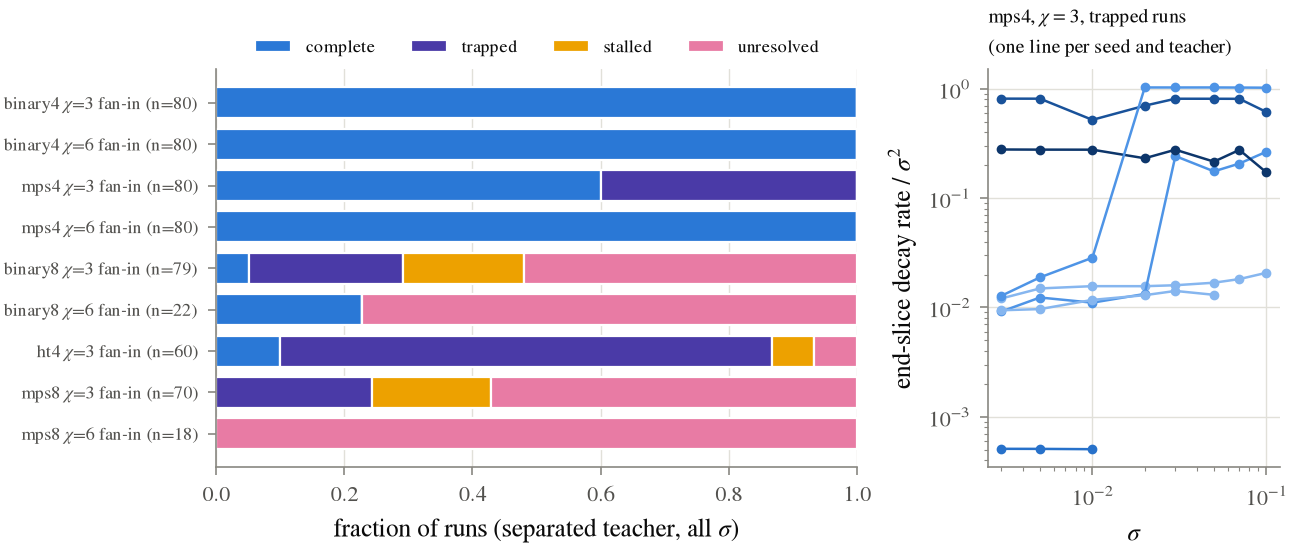
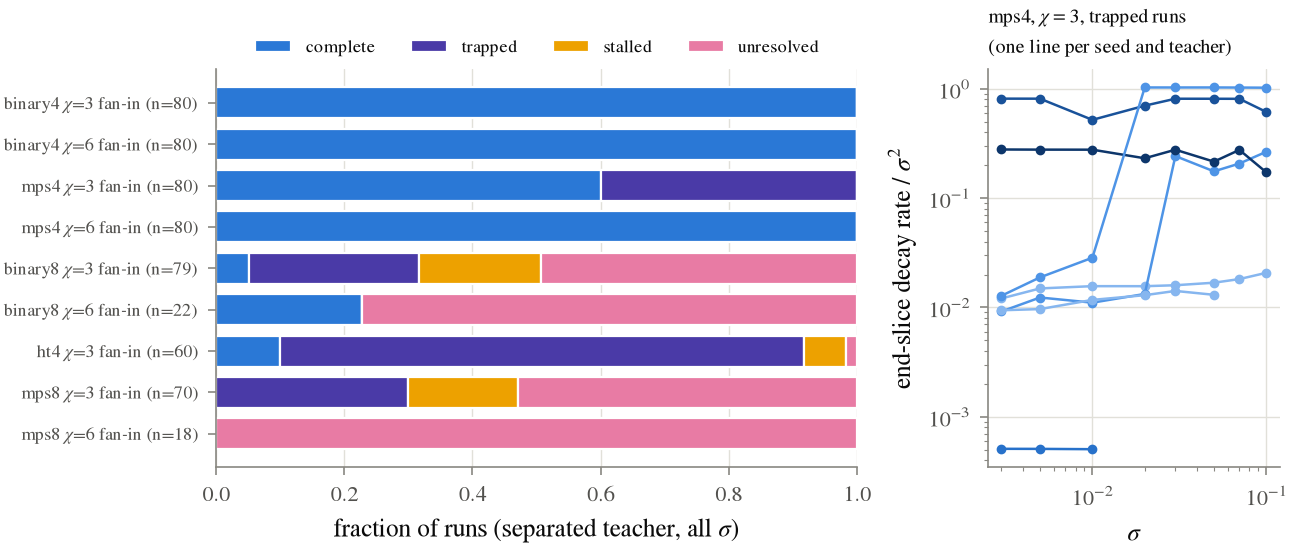
s2s-core: dead-route-end stop and class threshold 1e-8 sigma

diff --git a/experiments/s2s_core/analyze_main.py b/experiments/s2s_core/analyze_main.py
@@ -5,7 +5,7 @@
 Writes <out>/main_runs.csv (one row per run) and <out>/main_summary.csv (per tree, chi, teacher,
 sigma: run counts by class, S2S fraction, plateau-level errors, Hessian summary). Classes:
   complete    all components learned, every event resolved
-  trapped     not complete; a never-learned component's slice on some core fell below 1e-10 sigma
+  trapped     not complete; a never-learned component's slice on some core fell below 1e-8 sigma
               after the first escape (dead route end, the conservation-law trap; any later escape
               would be seeded by float64 roundoff, so it is not reported as physics)
   stalled     not complete, all slices alive, and the run reached t_max (1e3 x the RMS-overlap
@@ -44,7 +44,7 @@ def load(raw: Path) -> pd.DataFrame:
         after = [v for row in s["dormant_min_between_events"][1:] for v in row.values()]
         min_after = min(after) if after else np.nan
         # Dead route end: a never-learned component whose slice on some core (cores with sites,
-        # which include every route end) fell below 1e-10 sigma after the first escape: the
+        # which include every route end) fell below 1e-8 sigma after the first escape: the
         # conservation-law trap; any later escape of it is seeded by float64 roundoff.
         min_slice = np.nan
         if not complete and order:
@@ -55,7 +55,7 @@ def load(raw: Path) -> pd.DataFrame:
                 min_slice = float(np.nanmin(d["slice_norms"][after][:, :, never])) / s["sigma"]
         if complete:
             cls = "complete"
-        elif np.isfinite(min_slice) and min_slice < 1e-10:
+        elif np.isfinite(min_slice) and min_slice < 1e-8:
             cls = "trapped"
         elif s["stop_reason"] == "completed":
             cls = "stalled"

diff --git a/experiments/s2s_core/s2s.py b/experiments/s2s_core/s2s.py
@@ -236,10 +236,23 @@ def run_one(cfg: dict, out_dir: Path, hessians: bool = True) -> dict:
         learned = d["overlaps"][-1] >= 0.9
         return learned.any() and not learned.all() and amps[:, ~learned].max() < 1e-15
 
+    def dead_end(d):
+        # A never-learned component has a dead route end: its slice on some core stayed below
+        # 1e-8 sigma (7 decades below the init scale, above atol) for the whole chunk: the
+        # conservation-law trap, whose decay is exponential; only roundoff could revive it. Stop.
+        learned = d["overlaps"][-1] >= 0.9
+        if not learned.any() or learned.all():
+            return False
+        sl = d["slice_norms"][:, :, ~learned]
+        return bool(np.any(np.nanmax(sl, axis=0) < 1e-8 * sigma))
+
+    def stop(d):
+        return dead_end(d) or (cfg.get("roundoff_stop", True) and at_floor(d))
+
     tr = integrate_chunked(problem, theta0, t_max, n_log=cfg.get("n_log", 400),
                            wall_limit=cfg.get("wall_limit", 1200.0),
                            max_steps=cfg.get("max_steps", 20_000),
-                           stop_fn=at_floor if cfg.get("roundoff_stop", True) else None,
+                           stop_fn=stop,
                            loss_floor=cfg.get("loss_floor", 1e-9) * loss0,
                            extra=[slice_norm_recorder(teacher), balance_recorder()], **gf)
     t, a, params = tr["t"], tr["overlaps"], tr["params"]
